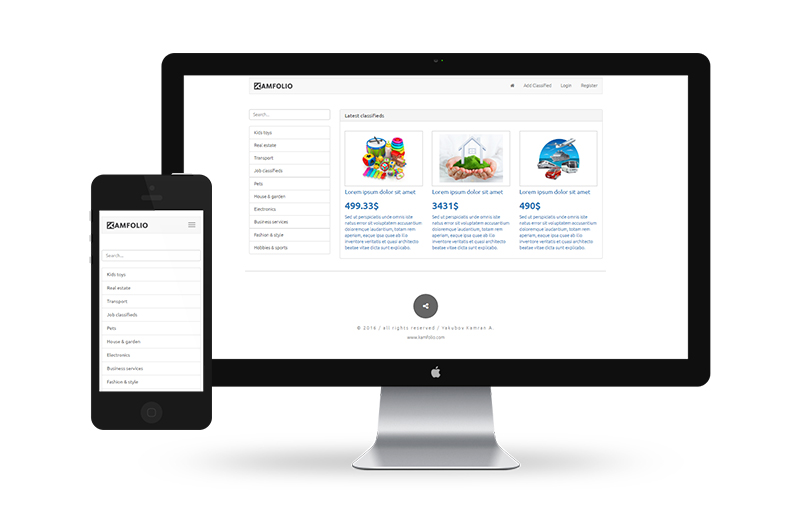
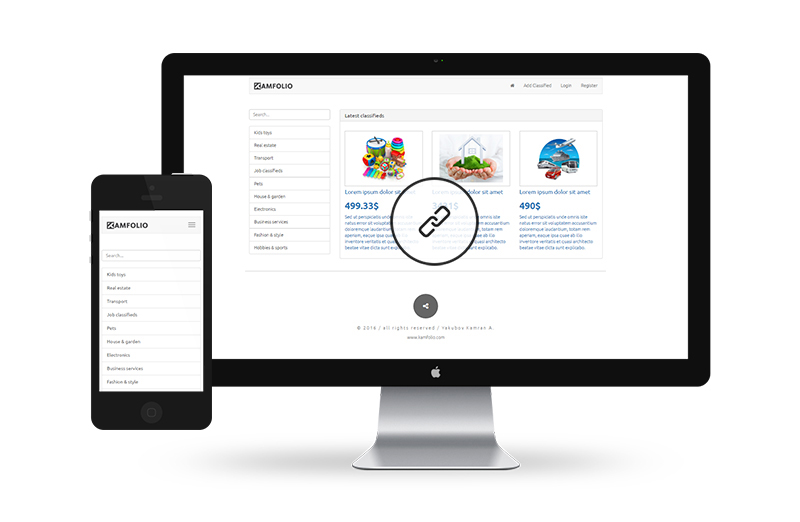
updating
updating preview image and readme.md

Changed region(s): [[0.4688, 0.3372, 0.625, 0.5211]]

diff --git a/readme.md b/readme.md
@@ -12,15 +12,17 @@
 2. Use musan-db.sql to import & extract into your db space
 3. Set up configuration file for db @ .env file in root directory of the site
 ..* By default / setting are-:
-....1    DB_HOST=127.0.0.1
-....2    DB_DATABASE=musan
-....3    DB_USERNAME=root
-....4    DB_PASSWORD=root
-4. If your Laravel environment is well set up, you can use "php artisan migrate" command line:
-..* - to build data table, __(note: they will be empty, but you may set up new user account in project and add new entries...)__
+..*    DB_HOST=127.0.0.1
+..*    DB_DATABASE=musan
+..*    DB_USERNAME=root
+..*    DB_PASSWORD=root
+4. If your Laravel environment is well set up, you can use __"php artisan migrate"__ command line to build data table. 
+__(note: they will be empty, but you may set up new user account in project and add new entries...)__
+5. For a correct preview, you will have to set up a virtual host. __(I recommend using XAMPP)__
+6. GOOD LUCK!
 
 
-![Alt text](https://github.com/djranzou/musan/blob/master/project-preview.jpg "MUSAN / TEST PROJECT BY KAMRAN YAKUB.")
+[![Alt text](https://github.com/djranzou/musan/blob/master/project-preview.jpg "MUSAN / TEST PROJECT BY KAMRAN YAKUB.")](https://travis-ci.org/laravel/framework)
 
 -------------
 © 2016 / Project developed by Kamran Yakub [www.kamfolio.com](http://www.kamfolio.com)
